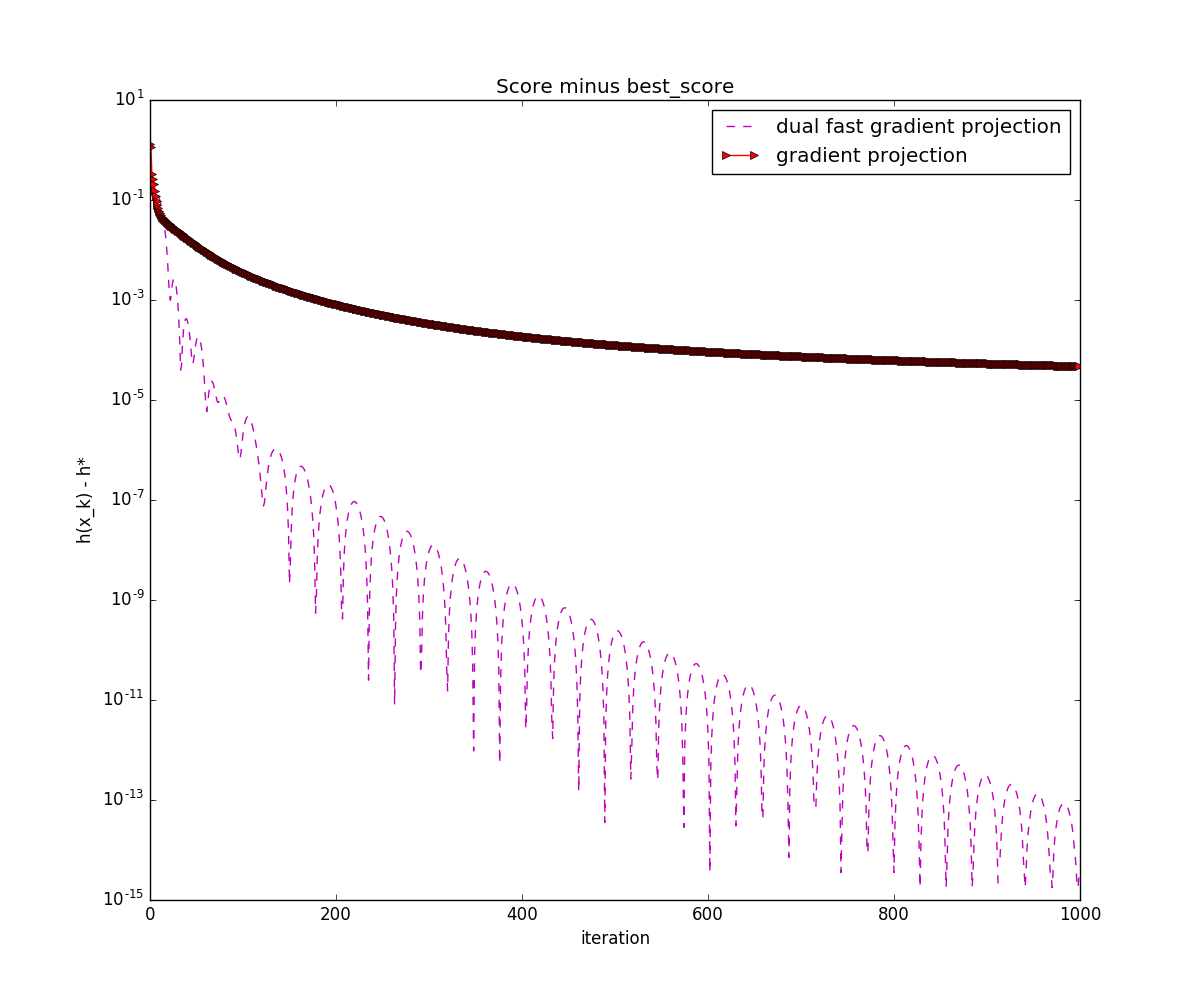
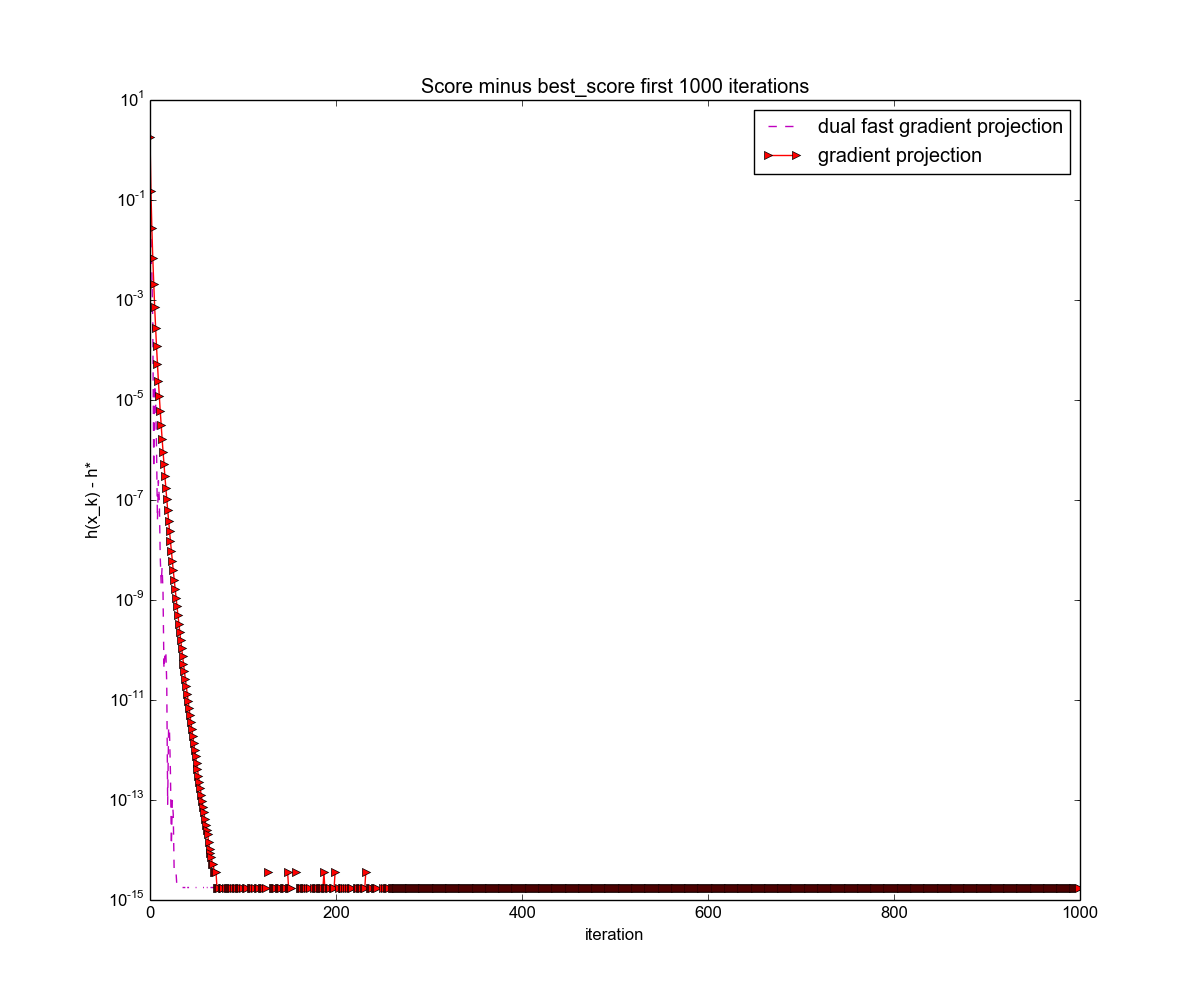
Question 1 done right.

diff --git a/hw3/q1/compare_methods.py b/hw3/q1/compare_methods.py
@@ -4,8 +4,8 @@ import math
 import numpy as np
 from matplotlib import pyplot as plt
 
-from hw3.q1.methods import fast_gradient_projection, gradient_projection, single_variable_search, naive_gradient_descent
-from hw3.q1.utils import q1_search_state, q1_dual_search_state
+from hw3.q1.methods import fast_gradient_projection, gradient_projection, single_variable_search
+from hw3.q1.utils import q1_simple_search_state
 
 
 def best_value():
@@ -21,87 +21,61 @@ def best_value():
 
 def Q1_comparison():
     np.random.seed(1234)
-    #
-    state0 = q1_search_state.Q1State.random_state()
+    state0_primal = q1_simple_search_state.PrimalState.random_state().projection()
+    state0_dual = q1_simple_search_state.DualState.random_state().projection()
 
-    state_dual = q1_dual_search_state.Q1DualState.random_state()
-
-    gradient_projection_5_vars = gradient_projection.GradientProjectionMethod(state0)
-
-    gradient_projection_dual = gradient_projection.GradientProjectionMethod(state_dual)
-    dual_fgp = fast_gradient_projection.FastGradientProjectionMethod(state_dual)
-
-    naive_3_vars = naive_gradient_descent.NaiveGradientDescent(state0)
-    single_var = single_variable_search.SingleVarSearch(state0.x2)
-    fgp = fast_gradient_projection.FastGradientProjectionMethod(state0)
+    gradient_projection_primal = gradient_projection.GradientProjectionMethod(state0_primal)
+    fgp_dual = fast_gradient_projection.FastGradientProjectionMethod(state0_dual)
 
     scores_primal = collections.defaultdict(list)
     scores = collections.defaultdict(list)
     solutions100 = {}
 
     for i in xrange(1000):
-        for (method, eta) in [(gradient_projection_5_vars, 1. / math.sqrt(i + 2)),
-                              (gradient_projection_dual, 0.2 / math.sqrt(i + 2)),
-                              (naive_3_vars, 0.5 / math.sqrt(i + 2)),
-                              (single_var, None),
-                              (dual_fgp, None),
-                              (fgp,  None)]:
+        for (method, eta) in [
+            (gradient_projection_primal, 0.5 / math.sqrt(i + 2)),
+            (fgp_dual, None)
+        ]:
             scores_primal[method].append(method.full_solution().score_primal())
             scores[method].append(method.full_solution().score())
             method.step(eta)
+
             if i == 100:
                 solutions100[method] = method.full_solution()
 
     print "Final Solutions:\n=============="
     print "Dual fast gradient projection solution:"
-    print solutions100[dual_fgp].as_q1_state()
+    print solutions100[fgp_dual]
     print "Primal gradient projection solution:"
-    print solutions100[gradient_projection_5_vars]
-
+    print solutions100[gradient_projection_primal]
+    print 'FastGradientProjection on dual last score', fgp_dual.full_solution().score_primal()
+    print 'GradientProjection last score', gradient_projection_primal.score()
     # Plot required by exercise
-    plt.figure(figsize=(12, 10))
-    plt.title("objective function as function of iteration")
-    plt.xlabel("iteration")
-    plt.ylabel("h(x_k)")
-    plt.plot(scores_primal[gradient_projection_5_vars][:100], 'r->', label='primal objective function - gradient projection')
-    plt.plot(scores_primal[dual_fgp][:100], 'm--', label='primal objective function - dual fast gradient projection')
-    plt.plot(scores[dual_fgp][:100], 'b-*', label='dual objective function - dual fast gradient projection')
-    plt.legend()
-    plt.savefig("q1c_first_100_iterations.png")
+    for N in (7, 100):
+        plt.figure(figsize=(12, 10))
+        plt.title("objective function as function of iteration")
+        plt.xlabel("iteration")
+        plt.ylabel("h(x_k)")
+        plt.plot(scores_primal[gradient_projection_primal][:N], 'r->', label='primal objective function - gradient projection')
+        plt.plot(scores_primal[fgp_dual][:N], 'm-*', label='primal objective function - dual fast gradient projection')
+        plt.plot(-np.array(scores[fgp_dual][:N]), 'b-+', label='dual objective function - dual fast gradient projection')
+        plt.legend()
+        plt.savefig("q1c_first_{}_iterations.png".format(N))
 
-    # Plot of all methods.
-    plt.figure(figsize=(12, 10))
-    plt.plot(scores_primal[gradient_projection_5_vars][:100], 'r->', label='gradient projection')
-    plt.plot(scores_primal[gradient_projection_dual][:100], 'c->', label='gradient projection dual')
-    plt.plot(scores_primal[naive_3_vars][:100], 'b-<', label='naive gradient descent')
-    plt.plot(scores_primal[single_var][:100], 'y-+', label='single variable')
-    plt.plot(scores_primal[fgp][:100], 'g-*', label='fast gradient projection')
-    plt.plot(scores_primal[dual_fgp][:100], 'm--', label='dual fast gradient projection')
-    plt.legend()
-    plt.savefig("q1c_first_100_iterations_full_plot.png")
 
     h_best = best_value()
-
+    print 'best solution - found with single variable optimization', h_best
     # Plot required by exercise.
-    plt.figure(figsize=(12, 10))
-    plt.title("Score minus best_score")
-    plt.xlabel("iteration")
-    plt.ylabel("h(x_k) - h*")
-    plt.semilogy(np.array(scores_primal[dual_fgp]) - h_best, 'm--', label='dual fast gradient projection')
-    plt.semilogy(np.array(scores_primal[gradient_projection_5_vars]) - h_best, 'r->', label='gradient projection')
-    plt.legend()
-    plt.savefig("q1d_first_1000_iterations_diff_from_best.png")
 
-    # Plot of all methods.
-    plt.figure(figsize=(12, 10))
-    plt.semilogy(np.array(scores_primal[gradient_projection_dual]) - h_best, 'c->', label='dual gradient projection')
-    plt.semilogy(np.array(scores_primal[dual_fgp]) - h_best, 'm--', label='dual fast gradient projection')
-    plt.semilogy(np.array(scores_primal[gradient_projection_5_vars]) - h_best, 'r->', label='gradient projection')
-    plt.semilogy(np.array(scores[naive_3_vars]) - h_best, 'b-<', label='naive gradient descent')
-    plt.semilogy(np.array(scores[single_var]) - h_best, 'y-+', label='single variable')
-    plt.semilogy(np.array(scores_primal[fgp]) - h_best, 'g-*', label='fast gradient projection')
-    plt.legend()
-    plt.savefig("q1d_first_1000_iterations_diff_from_best_full_plot.png")
+    for N in (100, 1000):
+        plt.figure(figsize=(12, 10))
+        plt.title("Score minus best_score first {} iterations".format(N))
+        plt.xlabel("iteration")
+        plt.ylabel("h(x_k) - h*")
+        plt.semilogy(np.array(scores_primal[fgp_dual][:N]) - h_best, 'm--', label='dual fast gradient projection')
+        plt.semilogy(np.array(scores_primal[gradient_projection_primal][:N]) - h_best, 'r->', label='gradient projection')
+        plt.legend()
+        plt.savefig("q1d_first_{}_iterations_diff_from_best.png".format(N))
 
 
 def main():

diff --git a/hw3/q1/utils/q1_simple_search_state.py b/hw3/q1/utils/q1_simple_search_state.py
@@ -1,0 +1,164 @@
+import numpy as np
+import itertools
+D = np.array([1, 2, 3, 2, 1], dtype=np.float)
+A = []
+for i in xrange(4):
+    a = np.zeros(shape=(2, 5), dtype=np.float)
+    a[0, i] = a[1, i + 1] = 1.
+    A.append(a)
+
+
+class PrimalState(object):
+    def __init__(self, v, x):
+        assert isinstance(v, np.ndarray)
+        assert isinstance(x, np.ndarray)
+        assert x.shape == D.shape
+        assert v.shape == (4, 2)
+        self._v = v.copy()
+        self._x = x.copy()
+
+    def full_score(self):
+        return self.score()
+
+    def score_primal(self):
+        return self.score()
+
+    def score(self):
+        square_part = np.linalg.norm(self._x - D, ord=2) ** 2
+        root_part = sum([np.inner(np.dot(A[i], self._x), self._v[i])
+                         for i in xrange(4)])
+        return square_part + root_part
+
+    def mult_AiTvi(self):
+        """
+        sum(Ai_transpose * v-I)
+        :return:
+        """
+        # This could be a done in a single un-readble line.
+        res = np.zeros_like(self._x)
+        for a, v in zip(A, self._v):
+            res += np.dot(a.T, v)
+        return res
+
+    def gradient(self):
+        x_grad = 2 * (self._x - D) + self.mult_AiTvi()
+        assert x_grad.shape == self._x.shape
+        v_grad = np.stack(tuple(np.dot(A[i], self._x) for i in xrange(4)))
+        assert v_grad.shape == self._v.shape
+        res = np.concatenate((x_grad.flatten(), v_grad.flatten()))
+        return res
+
+    def as_vec(self):
+        return np.concatenate((self._x.flatten(), self._v.flatten()))
+
+    @classmethod
+    def random_state(cls):
+        # Add 1 to make sure x2 >= 1
+        return PrimalState(np.random.random(size=(4, 2)), D)
+
+    @classmethod
+    def from_vec(cls, vec):
+        x = vec[:D.shape[0]]
+        v = np.stack((vec[len(x) + i * 2: len(x) + i * 2 + 2] for i in xrange(4)))
+        return PrimalState(v, x)
+
+    def __str__(self):
+        return "v:\n{}\nx:\n{}".format(self._v, self._x)
+
+    def projection(self):
+        actual_x = np.array([np.dot(A[i], self._x) for i in xrange(4)], dtype=np.float)
+        v = project_to_l2_ball(actual_x)
+        return PrimalState(v, self._x)
+
+
+def iter_array(a):
+    return itertools.product(*[range(s) for s in a.shape])
+
+
+def test_gradient():
+    for state_cls in (DualState, PrimalState):
+        s = state_cls.random_state()
+        x = s.as_vec()
+        h = 1e-5
+        gradient = s.gradient()
+        fx = s.score()
+
+        for i in iter_array(gradient):
+            x[i] += h
+            fx_plus_h = state_cls.from_vec(x).score()
+            x[i] -= h
+            g = (fx_plus_h - fx) / h
+            assert abs(g - gradient[i]) < 0.0001
+
+
+def test_from_to_vec():
+    s = PrimalState.random_state()
+    assert np.all(PrimalState.from_vec(s.as_vec()).as_vec() == s.as_vec())
+
+
+class DualState(object):
+    LIPSCHITZ_L = 2.
+
+    def __init__(self, v):
+        assert isinstance(v, np.ndarray)
+        assert v.shape == (4, 2)
+        self._v = v.copy()
+
+    def _generate_x(self):
+        return D - 0.5 * PrimalState(self._v, D).mult_AiTvi()
+
+    def generate_primal(self):
+        return PrimalState(self._v, self._generate_x())
+
+    def full_score(self):
+        return self.score()
+
+    def score_primal(self):
+        return self.generate_primal().projection().score()
+
+    def score(self):
+        return -self.generate_primal().score()
+
+    def gradient(self):
+        s = PrimalState(self._v, D).mult_AiTvi()
+        square_part = - 1. / 2. * np.stack(tuple(np.dot(A[i], s) for i in xrange(4)))
+        linear_part = np.stack(tuple(np.dot(D, A[i].T) for i in xrange(4)))
+        v_grad = square_part + linear_part
+        assert v_grad.shape == self._v.shape
+        return -v_grad
+
+    def as_vec(self):
+        return self._v.copy()
+
+    @classmethod
+    def random_state(cls):
+        # Add 1 to make sure x2 >= 1
+        return DualState(np.random.random(size=(4, 2)))
+
+    @classmethod
+    def from_vec(cls, vec):
+        return DualState(vec)
+
+    def __str__(self):
+        return "Dual:\n{}".format(self.generate_primal())
+
+    def projection(self):
+        return DualState(project_to_l2_ball(self._v))
+
+
+def project_vector(v_i):
+    # v_i = np.max((np.zeros_like(v_i), v_i), axis=0)
+    norm = np.linalg.norm(v_i, ord=2)
+    return v_i / norm
+    # if norm <= 1:
+    #     return v_i
+    # else:
+    #     return v_i / norm
+
+
+def project_to_l2_ball(v):
+    return np.stack(tuple(map(project_vector, v)))
+
+
+test_from_to_vec()
+test_gradient()
